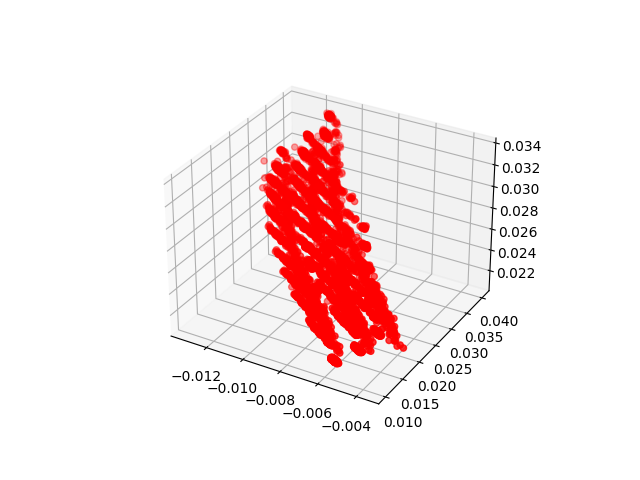
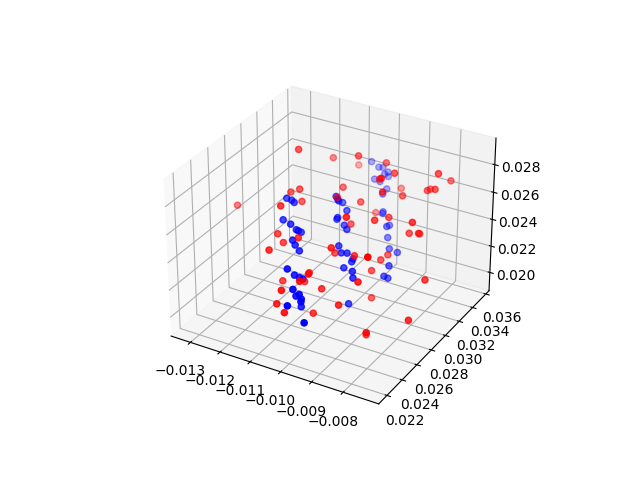
policy cluster

Changed region(s): [[0.25, 0.1875, 0.8438, 0.9062], [0.25, 0.75, 0.4062, 0.8438], [0.6562, 0.25, 0.6875, 0.2812]]

diff --git a/data.py b/data.py
@@ -21,11 +21,11 @@ class sequentialdata(object):
             for key in keylist:
                 self.data[key] += traj[key]
                 # count += len(traj)
-        print("total number of transition is",count)
-        print(len(self.data['actions']))
+        # print("total number of transition is",count)
+        # print(len(self.data['actions']))
         for key in keylist:
             self.data[key] = np.stack(self.data[key],axis=0)
-            print(self.data[key].shape)
+            # print(self.data[key].shape)
         
     def __len__(self):
         return len(self.data['rewards'])
@@ -50,13 +50,31 @@ class sequentialdata(object):
         # for target state find similar state's actions
 
 
-def plot3d(data:np.array,savefig:str,c = 'r'):
-    fig = plt.figure()
+def plot3d(data:list,savefig:str,c:list):
+    # fig = plt.figure()
     axis = plt.axes(projection = '3d')
-    axis.scatter(data[:,0],data[:,1],data[:,2],c=c)
+    for _data,_c in zip(data,c):
+        if len(_data.shape) == 2:
+            axis.scatter(_data[:,0],_data[:,1],_data[:,2],c=_c)
+        else:
+            axis.scatter(_data[0],_data[1],_data[2],c=_c)
     plt.savefig(savefig)
     plt.close()
-        
+
+from sklearn.mixture import GaussianMixture as GMM
+
+def GMMfit(data,samplesize = 32):
+    gmm = GMM(n_components = 3).fit(data)
+    # labels = gmm.predict(data)
+    # params = gmm.get_params()
+    # print("params",params)
+    def _datageneration():
+        data_new = gmm.sample(samplesize)
+        return data_new
+    # prob = gmm.predict_proba(data)
+    # print(prob.shape)
+    return _datageneration()
+    # return labels
 if __name__ == "__main__":
     inst = sequentialdata()
     # plot3d(inst.data['actions'],"whole_distribution_action.png")
@@ -64,9 +82,12 @@ if __name__ == "__main__":
     target = 2 * target - 1
     epsilon = 0.1
     actions,epsilon = inst.similarity(target,epsilon=0.1)
+    generatedata,labels = GMMfit(actions,samplesize=actions.shape[0])[0]
+    # print(labels[0].shape)
+    plot3d([actions,],savefig="distribution/action",c = ['b','r'])
     # print(,epsilon)
-    print("target is",target)
-    plot3d(actions,savefig="distribution/action",c = 'r')
+    # print("target is",target)
+    # plot3d([actions,target],savefig="distribution/action",c = ['b','r'])
     # print(sum(judge))
     # for obs,act,r,done,next_obs in inst:
     #     print(obs)

diff --git a/agent.py b/agent.py
@@ -1,0 +1,44 @@
+from data import sequentialdata,plot3d,GMMfit
+import d4rl
+import gym
+from random import choice
+
+class Agent(object):
+    def __init__(self) -> None:
+        self.data = sequentialdata()
+        self.env = gym.make("hopper-medium-v2")
+
+    def validate(self):
+        done = False
+        state = self.env.reset()
+        reward = 0
+        while done == False:
+            action = self.getaction(state)
+            ns,r,done,_ = self.env.step(action)
+            reward += r
+            # print('r is',r)
+            state = ns
+        return reward
+            # pass
+    
+    def getaction(self,targetstate):
+        actions,epsilon = self.data.similarity(targetstate)
+        done = False
+        # while done == False:
+        sampleactions,labels = GMMfit(actions,samplesize=32)
+        sampleaction = sampleactions[choice(range(labels.shape[0]))]
+        return sampleaction   
+            # print(sampleactions)
+            # labels = (sampleactions > -1) & (sampleactions < 1)
+            # print(labels)
+            # exit()
+
+if __name__ == "__main__":
+    agent = Agent()
+    # state = agent.env.reset()
+    # action = agent.getaction(state)
+    # print("action is",action)
+    N = 10
+    for epoch in range(N):
+        r = agent.validate()
+        print("epoch {}".format(epoch),"reward is {}".format(r))

diff --git a/minture_gaussian.py b/minture_gaussian.py
@@ -1,0 +1,28 @@
+import numpy as np
+
+import matplotlib.pyplot as plt
+
+x = []
+y = []
+
+from random import random
+N = 3
+paramx = []
+paramy = []
+for _ in range(N):
+    paramx.append(random())
+for _ in range(N):
+    paramy.append(random())
+Num_sample = 1024
+for index in range(N):
+    x.append(np.random.normal(paramx[index],1,Num_sample))
+    y.append(np.random.normal(paramy[index],1,Num_sample))
+# x = np.concatenate(x,axis=-1)
+# y = np.concatenate(y,axis=-1)
+# plt.scatter(x,y,s = 0.1)
+colorlist = ['r','g','b']
+for index in range(N):
+    plt.scatter(x[index],y[index],s=0.1,c=colorlist[index])
+plt.savefig("./distribution/data.png")
+# x.append(np.random.normal(0,1,10))
+# y.append
